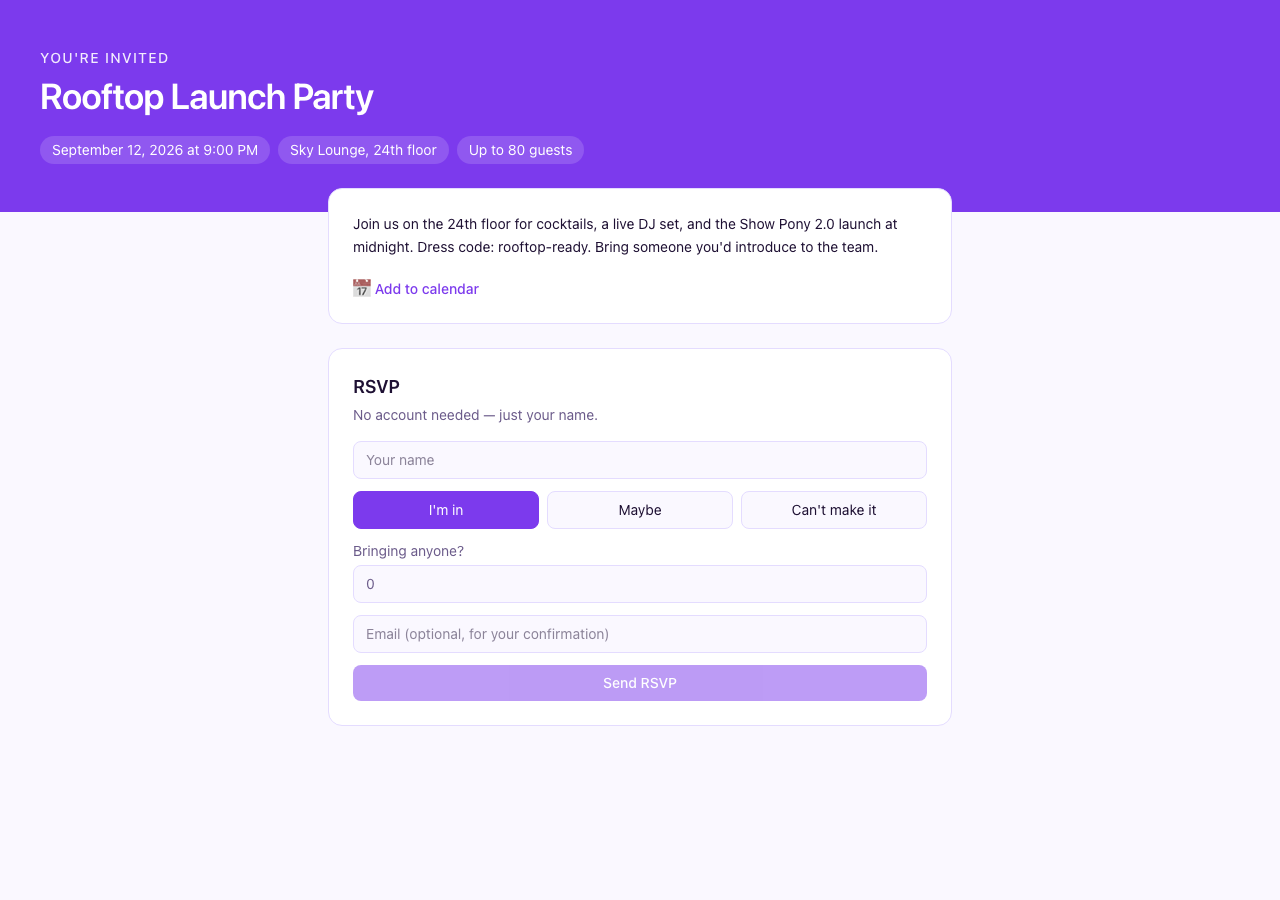
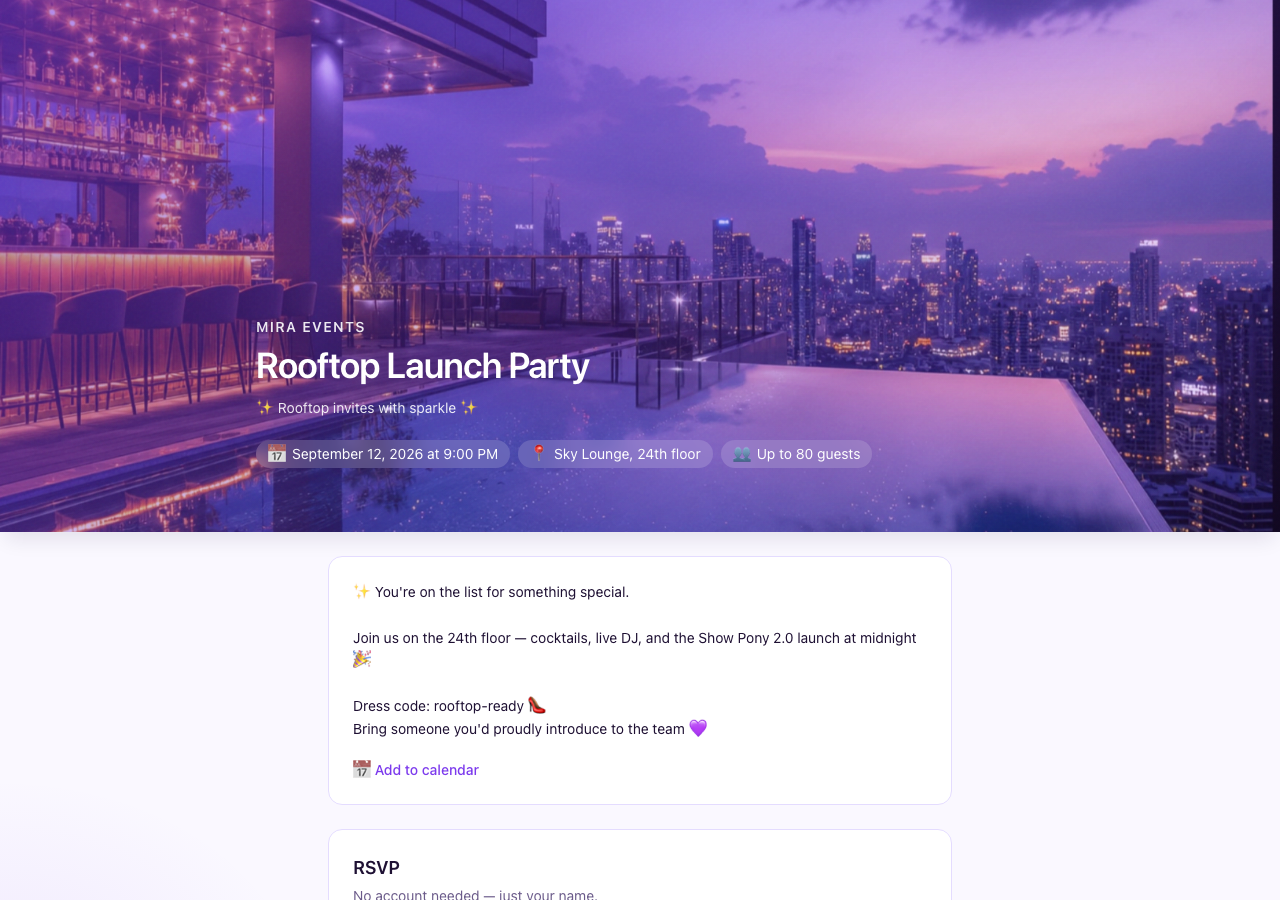
docs: sync README Show Pony screenshots from docs tree
Copy desktop/light previews from kumiko-platform docs screenshots instead of
stale show-pony/public marketing PNGs, and add sync:readme-screenshots script.

diff --git a/README.md b/README.md
@@ -40,6 +40,9 @@ Tutorial: [docs.kumiko.rocks/en/show-pony](https://docs.kumiko.rocks/en/show-pon
 |:---:|:---:|:---:|
 | ![Public RSVP page](docs/readme/show-pony-public-rsvp.png) | ![Host events list](docs/readme/show-pony-host-events.png) | ![Platform overview](docs/readme/show-pony-platform.png) |
 
+Screenshots match [docs.kumiko.rocks](https://docs.kumiko.rocks/en/show-pony/) (Playwright matrix from show-pony).
+Refresh after UI changes: `cd show-pony && bun run screenshots`, sync to `kumiko-platform/apps/docs/public/screenshots/show-pony/`, then `bun run sync:readme-screenshots` here.
+
 ---
 
 ## What it does